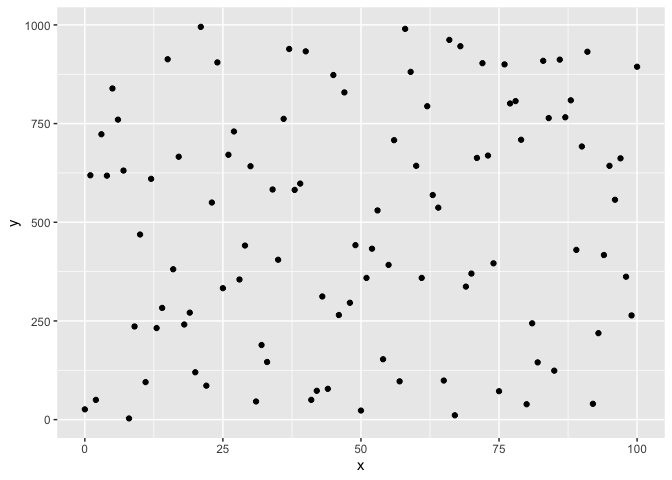
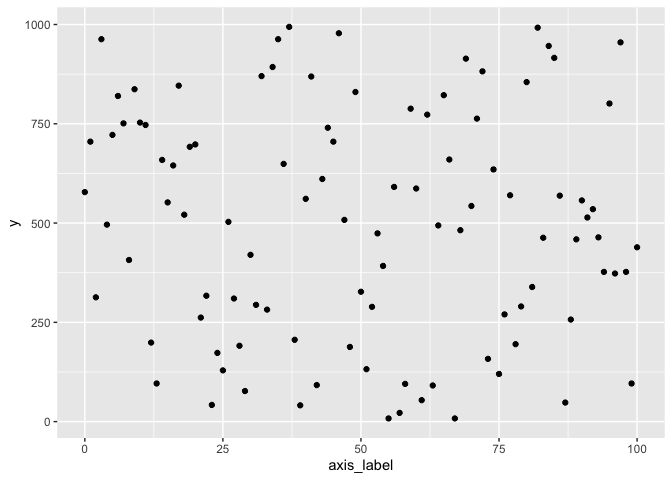
updated

diff --git a/README.md b/README.md
@@ -42,7 +42,9 @@ library(pLtemplate)
 #>     extract
 
 data <- tibble(x = 0:100, y = sample(1:1000, 101, replace=TRUE))
-data %>% ggplot() + aes(x, y) + geom_point() + theme_pL()
+
+data %>% ggplot() + aes(x, y) + geom_point() + theme_pL() + xlab("axis_label")
 ```
 
-<img src="man/figures/README-example-1.png" width="100%" />
+<img src="man/figures/README-example-1.png" width="100%" /> Of note,
+this code works just fine if I do not have it in the Markdown file.
